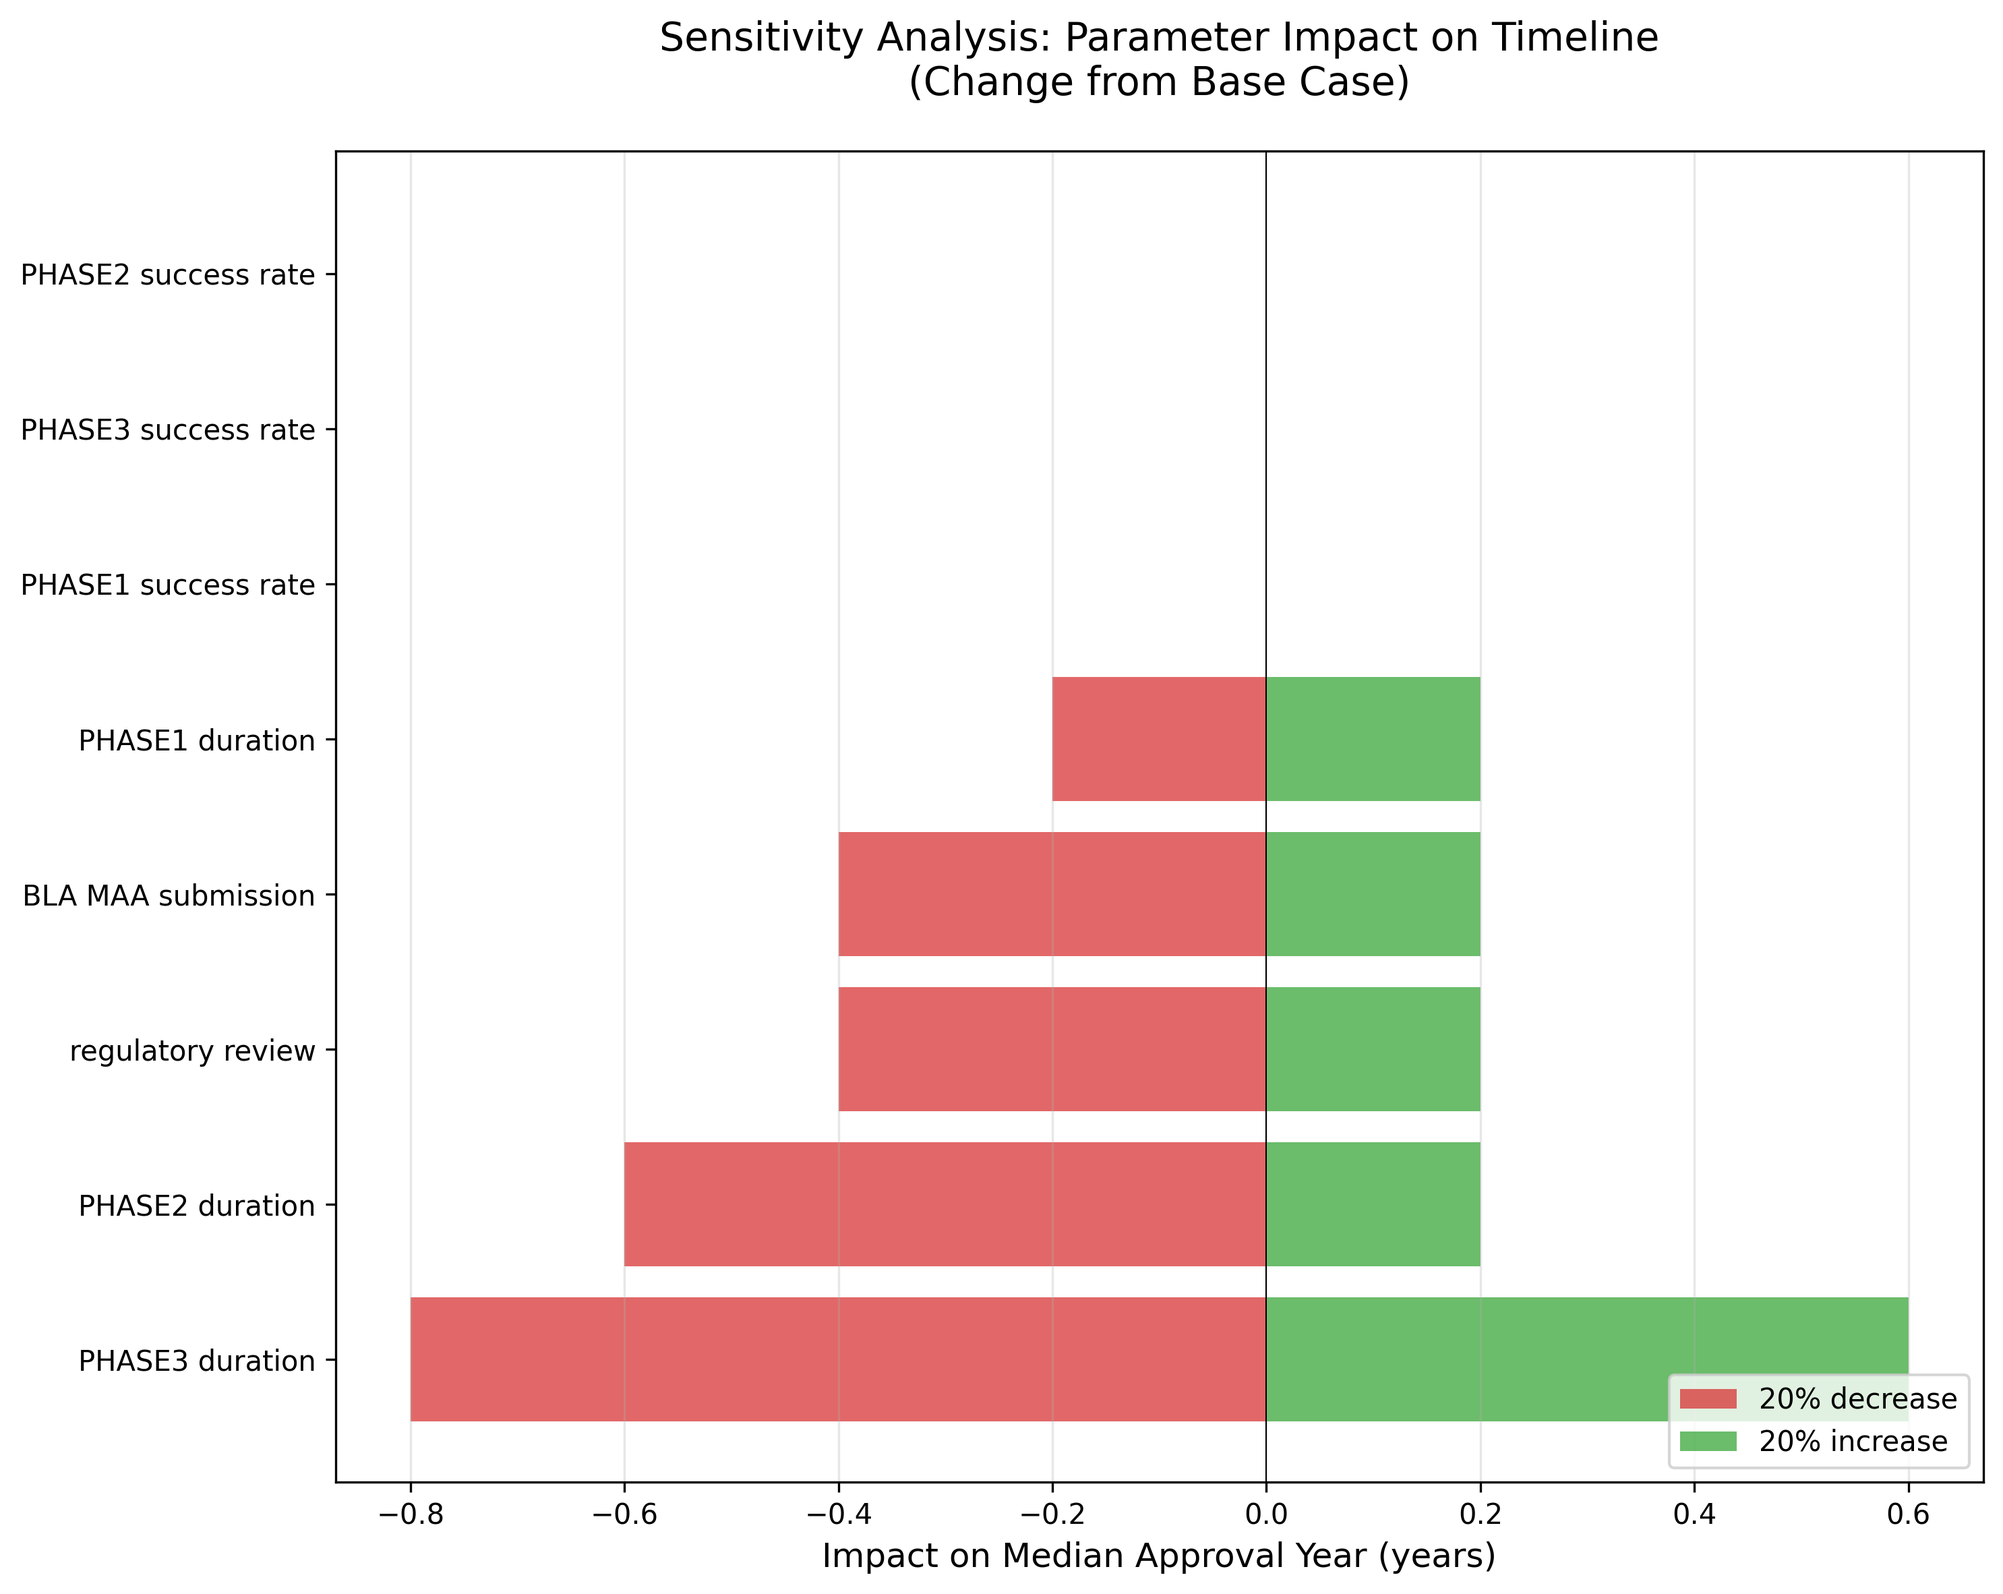
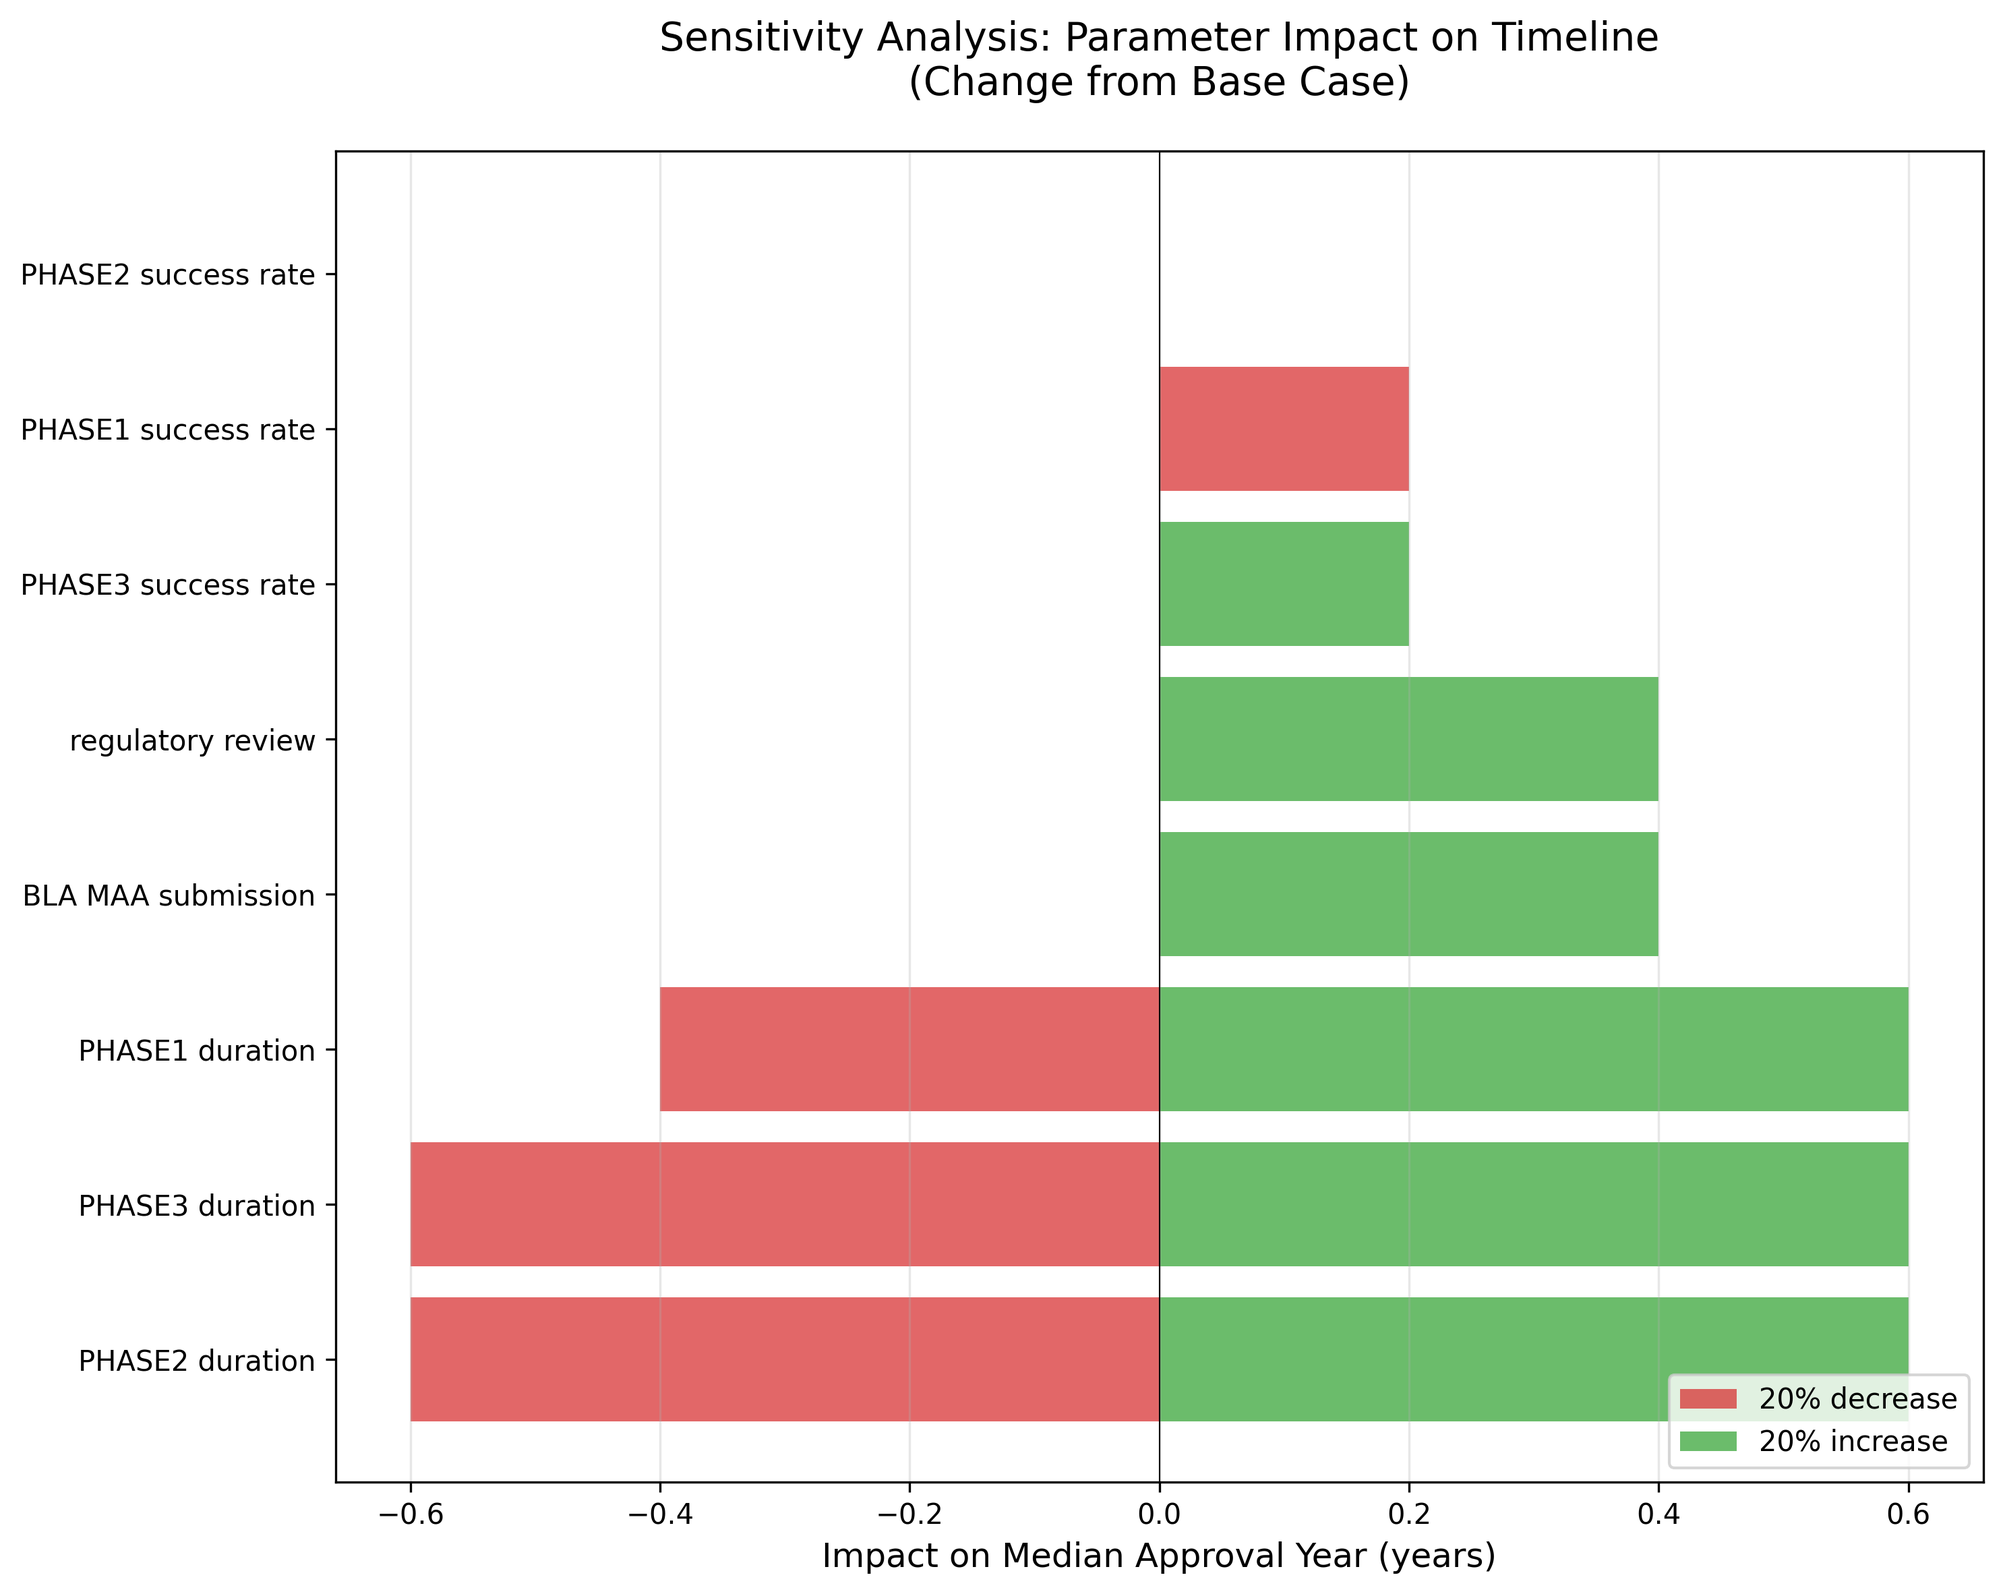
deploy: 54d3042644b5c4a6e199e2c0cdc199577644643e

diff --git a/index.html b/index.html
@@ -121,7 +121,7 @@
         </nav>
         
         <h1>網膜色素変性症（RP）治療開発ロードマップ</h1>
-<p>生成日時: 2025年06月26日 11:00</p>
+<p>生成日時: 2025年06月26日 19:09</p>
 <h2>エグゼクティブサマリー</h2>
 <p>本レポートは、網膜色素変性症（Retinitis Pigmentosa, RP）の治療法開発状況を定量的に分析し、効果的な治療法がいつ頃利用可能になるかを予測したものです。</p>
 <h3>主要な発見</h3>
@@ -200,6 +200,15 @@
 </thead>
 <tbody>
 <tr>
+<td>NCT04945772</td>
+<td>Efficacy and Safety of MCO-010 Optogenet...</td>
+<td>PHASE2</td>
+<td>Nanoscope Therapeutics Inc.</td>
+<td>100.0%</td>
+<td>2026年</td>
+<td>[2026, 2026]</td>
+</tr>
+<tr>
 <td>NCT05203939</td>
 <td>Study to Assess the Safety and Efficacy ...</td>
 <td>PHASE1, PHASE2</td>
@@ -218,22 +227,13 @@
 <td>[2027, 2027]</td>
 </tr>
 <tr>
-<td>NCT03584165</td>
-<td>Long-term Safety and Efficacy Follow-up ...</td>
-<td>PHASE3</td>
-<td>NightstaRx Ltd, a Biogen Company</td>
-<td>72.4%</td>
+<td>NCT06275620</td>
+<td>A Study Comparing Two Doses of AGTC-501 ...</td>
+<td>PHASE2</td>
+<td>Beacon Therapeutics</td>
+<td>100.0%</td>
 <td>2029年</td>
-<td>[2028, 2030]</td>
-</tr>
-<tr>
-<td>NCT05537220</td>
-<td>Oral N-acetylcysteine for Retinitis Pigm...</td>
-<td>PHASE3</td>
-<td>Johns Hopkins University</td>
-<td>71.5%</td>
-<td>2029年</td>
-<td>[2029, 2030]</td>
+<td>[2029, 2029]</td>
 </tr>
 <tr>
 <td>NCT00999609</td>
@@ -241,53 +241,53 @@
 <td>PHASE3</td>
 <td>Spark Therapeutics, Inc.</td>
 <td>71.7%</td>
-<td>2031年</td>
-<td>[2030, 2032]</td>
+<td>2029年</td>
+<td>[2028, 2030]</td>
 </tr>
 <tr>
 <td>NCT06333249</td>
 <td>A Study Comparing Two Doses of AGTC-501 ...</td>
 <td>PHASE2</td>
 <td>Beacon Therapeutics</td>
-<td>56.1%</td>
-<td>2032年</td>
-<td>[2031, 2032]</td>
+<td>100.0%</td>
+<td>2029年</td>
+<td>[2029, 2029]</td>
 </tr>
 <tr>
-<td>NCT04356716</td>
-<td>Sildenafil for Treatment of Choroidal Is...</td>
-<td>PHASE2</td>
-<td>Columbia University</td>
-<td>56.0%</td>
-<td>2032年</td>
-<td>[2031, 2032]</td>
-</tr>
-<tr>
-<td>NCT05909488</td>
-<td>Role of UC-MSC and CM to Inhibit Vision ...</td>
+<td>NCT04850118</td>
+<td>A Clinical Trial Evaluating the Safety a...</td>
 <td>PHASE2, PHASE3</td>
-<td>PT. Prodia Stem Cell Indonesia</td>
-<td>55.2%</td>
+<td>Beacon Therapeutics</td>
+<td>100.0%</td>
+<td>2029年</td>
+<td>[2029, 2029]</td>
+</tr>
+<tr>
+<td>NCT06852963</td>
+<td>A Study of Two Doses of VP-001 Administe...</td>
+<td>PHASE1, PHASE2</td>
+<td>PYC Therapeutics</td>
+<td>100.0%</td>
+<td>2030年</td>
+<td>[2029, 2030]</td>
+</tr>
+<tr>
+<td>NCT06455826</td>
+<td>MAD of IVT VP-001 in PRPF31 Mutation-Ass...</td>
+<td>PHASE1</td>
+<td>PYC Therapeutics</td>
+<td>100.0%</td>
+<td>2030年</td>
+<td>[2029, 2030]</td>
+</tr>
+<tr>
+<td>NCT05537220</td>
+<td>Oral N-acetylcysteine for Retinitis Pigm...</td>
+<td>PHASE3</td>
+<td>Johns Hopkins University</td>
+<td>71.4%</td>
 <td>2032年</td>
 <td>[2031, 2033]</td>
-</tr>
-<tr>
-<td>NCT02065011</td>
-<td>A Study to Determine the Long-Term Safet...</td>
-<td>PHASE2</td>
-<td>Sanofi</td>
-<td>56.2%</td>
-<td>2032年</td>
-<td>[2031, 2032]</td>
-</tr>
-<tr>
-<td>NCT06275620</td>
-<td>A Study Comparing Two Doses of AGTC-501 ...</td>
-<td>PHASE2</td>
-<td>Beacon Therapeutics</td>
-<td>55.6%</td>
-<td>2033年</td>
-<td>[2032, 2033]</td>
 </tr>
 </tbody>
 </table>
@@ -315,11 +315,11 @@
 <p><img alt="トルネード図" src="figs/tornado.png" /></p>
 <h3>主要な影響要因</h3>
 <ul>
+<li><strong>PHASE2 duration</strong> (increase 20%): +0.6年の影響</li>
+<li><strong>PHASE1 duration</strong> (increase 20%): +0.6年の影響</li>
 <li><strong>PHASE3 duration</strong> (increase 20%): +0.6年の影響</li>
-<li><strong>PHASE1 duration</strong> (increase 20%): +0.2年の影響</li>
-<li><strong>PHASE2 duration</strong> (increase 20%): +0.2年の影響</li>
-<li><strong>regulatory review</strong> (increase 20%): +0.2年の影響</li>
-<li><strong>BLA MAA submission</strong> (increase 20%): +0.2年の影響</li>
+<li><strong>BLA MAA submission</strong> (increase 20%): +0.4年の影響</li>
+<li><strong>regulatory review</strong> (increase 20%): +0.4年の影響</li>
 </ul>
 <h2>4. 予測の可視化</h2>
 <h3>累積承認確率</h3>

diff --git a/current_status_facts.md b/current_status_facts.md
@@ -32,19 +32,23 @@
 ## 🧬 最も進んでいる治療法（Phase 3実施中）
 
 ### 1. MCO-010（Nanoscope社）
-- **試験番号**: [NCT04945772](https://clinicaltrials.gov/study/NCT04945772)
-- **現在の状況**: Phase 3完了、データ解析中
+- **試験番号**: [NCT04945772](https://clinicaltrials.gov/study/NCT04945772)（RESTORE試験）
+- **現在の状況**: Phase 3完了、主要評価項目達成、統計的有意性確認
 - **開始日**: 2021年6月
-- **特徴**: 遺伝子型に依存しない光遺伝学的治療
-- **公式発表**: 2025年第1四半期にBLA（生物学的製剤承認申請）予定
+- **特徴**: 遺伝子型に依存しない（gene-agnostic）光遺伝学的治療
+- **FDA申請**: 2025年6月に段階的BLA（生物学的製剤承認申請）開始予定
+- **追加適応症**: スターガルト病にも有望な結果
+- **規制指定**: FDA Fast Track指定、希少疾病用医薬品指定取得
 - **参照**: [Nanoscope社プレスリリース](https://nanostherapeutics.com/2024/11/01/nanoscope-therapeutics-completes-patient-enrollment-in-phase-3-restore-trial/)
 
 ### 2. OCU400（Ocugen社）
-- **試験番号**: [NCT05203939](https://clinicaltrials.gov/study/NCT05203939)
-- **現在の状況**: Phase 3実施中
+- **試験番号**: [NCT05203939](https://clinicaltrials.gov/study/NCT05203939)（liMeliGhT試験）
+- **現在の状況**: Phase 3実施中、2025年前半に患者登録完了予定
 - **開始日**: 2022年9月
-- **特徴**: NR2E3遺伝子置換療法（複数の遺伝子変異に対応）
-- **公式発表**: Phase 1/2で100%の患者が改善または維持
+- **特徴**: NR2E3遺伝子置換療法（100以上の遺伝子変異に対応可能）
+- **最新データ**: Phase 1/2の2年データで100%（9/9）の患者が改善または維持（2025年1月発表）
+- **FDA申請**: 2026年中頃にBLA/MAA申請予定
+- **規制指定**: FDA RMAT指定、希少疾病用医薬品指定、EMA ATMP分類取得
 - **参照**: [Ocugen社発表](https://ocugen.com/gene-therapies/ocu400/)
 
 ### 3. Botaretigene sparoparvovec（Janssen社）
@@ -58,6 +62,26 @@
 - **現在の状況**: Phase 2/3実施中
 - **開始日**: 2020年12月
 - **特徴**: RPGR遺伝子変異に対する遺伝子治療
+
+### 5. VP-001（PYC Therapeutics社）
+- **現在の状況**: Phase 1実施中、2025年後半にPhase 2/3開始予定
+- **特徴**: RP11型向けRNA療法
+- **試験**: WALLABY試験（2025年11月完了予定）
+
+### 6. AGTC-501（Beacon Therapeutics社）
+- **現在の状況**: Phase 2/3 VISTA試験で患者登録中
+- **特徴**: X連鎖性RP（XLRP）向け遺伝子治療
+- **進捗**: Phase 2で良好な結果
+
+### 7. OpCT-001（BlueRock Therapeutics社）
+- **現在の状況**: Phase 1/2a CLARICO試験実施中
+- **特徴**: 光受容体細胞治療
+- **規制指定**: FDA Fast Track指定取得
+
+### 8. NPI-001（Nacuity Pharmaceuticals社）
+- **現在の状況**: 開発中
+- **特徴**: 経口薬（神経保護作用）
+- **規制指定**: FDA Fast Track指定取得
 
 ---
 
@@ -124,13 +148,19 @@
 ## 📅 重要な最新動向（2024-2025年）
 
 ### 2024年
-- 11月: Nanoscope社がMCO-010のPhase 3患者登録完了を発表
+- 11月: Nanoscope社がMCO-010のPhase 3（RESTORE試験）患者登録完了を発表
 - 10月: Ocugen社がOCU400の中間解析で良好な結果を報告
 - 6月: 日本でLuxturnaが保険適用開始
+- 年内: MCO-010のRESTORE試験が主要評価項目を達成、統計的有意性確認
 
 ### 2025年
-- 6月: 複数の企業がARVO 2025で最新データを発表
-- 予定: Nanoscope社がMCO-010のBLA申請（Q1）
+- 6月: Nanoscope社がMCO-010の段階的BLA申請を開始
+- 5月: Ocugen社がEMAからOCU400のATMP分類と中央審査手続き承認取得
+- 1月: Ocugen社がOCU400の2年データで100%改善/維持を発表
+- 年内予定: 
+  - PYC VP-001のPhase 2/3試験開始
+  - OCU400のliMeliGhT Phase 3試験患者登録完了
+  - MCO-010のスターガルト病への適応拡大検討
 
 ---
 

diff --git a/index.md b/index.md
@@ -1,6 +1,6 @@
 # 網膜色素変性症（RP）治療開発ロードマップ
 
-生成日時: 2025年06月26日 11:00
+生成日時: 2025年06月26日 19:09
 
 ## エグゼクティブサマリー
 
@@ -49,16 +49,16 @@
 
 | 試験ID | 治療法名 | フェーズ | スポンサー | 成功率 | 承認予測（中央値） | 90%信頼区間 |
 |--------|----------|----------|------------|--------|-------------------|--------------|
+| NCT04945772 | Efficacy and Safety of MCO-010 Optogenet... | PHASE2 | Nanoscope Therapeutics Inc. | 100.0% | 2026年 | [2026, 2026] |
 | NCT05203939 | Study to Assess the Safety and Efficacy ... | PHASE1, PHASE2 | Ocugen | 100.0% | 2027年 | [2027, 2027] |
 | NCT06388200 | A Phase 3 Study Of OCU400 Gene Therapy f... | PHASE3 | Ocugen | 100.0% | 2027年 | [2027, 2027] |
-| NCT03584165 | Long-term Safety and Efficacy Follow-up ... | PHASE3 | NightstaRx Ltd, a Biogen Company | 72.4% | 2029年 | [2028, 2030] |
-| NCT05537220 | Oral N-acetylcysteine for Retinitis Pigm... | PHASE3 | Johns Hopkins University | 71.5% | 2029年 | [2029, 2030] |
-| NCT00999609 | Safety and Efficacy Study in Subjects Wi... | PHASE3 | Spark Therapeutics, Inc. | 71.7% | 2031年 | [2030, 2032] |
-| NCT06333249 | A Study Comparing Two Doses of AGTC-501 ... | PHASE2 | Beacon Therapeutics | 56.1% | 2032年 | [2031, 2032] |
-| NCT04356716 | Sildenafil for Treatment of Choroidal Is... | PHASE2 | Columbia University | 56.0% | 2032年 | [2031, 2032] |
-| NCT05909488 | Role of UC-MSC and CM to Inhibit Vision ... | PHASE2, PHASE3 | PT. Prodia Stem Cell Indonesia | 55.2% | 2032年 | [2031, 2033] |
-| NCT02065011 | A Study to Determine the Long-Term Safet... | PHASE2 | Sanofi | 56.2% | 2032年 | [2031, 2032] |
-| NCT06275620 | A Study Comparing Two Doses of AGTC-501 ... | PHASE2 | Beacon Therapeutics | 55.6% | 2033年 | [2032, 2033] |
+| NCT06275620 | A Study Comparing Two Doses of AGTC-501 ... | PHASE2 | Beacon Therapeutics | 100.0% | 2029年 | [2029, 2029] |
+| NCT00999609 | Safety and Efficacy Study in Subjects Wi... | PHASE3 | Spark Therapeutics, Inc. | 71.7% | 2029年 | [2028, 2030] |
+| NCT06333249 | A Study Comparing Two Doses of AGTC-501 ... | PHASE2 | Beacon Therapeutics | 100.0% | 2029年 | [2029, 2029] |
+| NCT04850118 | A Clinical Trial Evaluating the Safety a... | PHASE2, PHASE3 | Beacon Therapeutics | 100.0% | 2029年 | [2029, 2029] |
+| NCT06852963 | A Study of Two Doses of VP-001 Administe... | PHASE1, PHASE2 | PYC Therapeutics | 100.0% | 2030年 | [2029, 2030] |
+| NCT06455826 | MAD of IVT VP-001 in PRPF31 Mutation-Ass... | PHASE1 | PYC Therapeutics | 100.0% | 2030年 | [2029, 2030] |
+| NCT05537220 | Oral N-acetylcysteine for Retinitis Pigm... | PHASE3 | Johns Hopkins University | 71.4% | 2032年 | [2031, 2033] |
 
 
 ### 治療モダリティ別の状況
@@ -85,11 +85,11 @@
 ![トルネード図](figs/tornado.png)
 
 ### 主要な影響要因
+- **PHASE2 duration** (increase 20%): +0.6年の影響
+- **PHASE1 duration** (increase 20%): +0.6年の影響
 - **PHASE3 duration** (increase 20%): +0.6年の影響
-- **PHASE1 duration** (increase 20%): +0.2年の影響
-- **PHASE2 duration** (increase 20%): +0.2年の影響
-- **regulatory review** (increase 20%): +0.2年の影響
-- **BLA MAA submission** (increase 20%): +0.2年の影響
+- **BLA MAA submission** (increase 20%): +0.4年の影響
+- **regulatory review** (increase 20%): +0.4年の影響
 
 
 ## 4. 予測の可視化

diff --git a/ai_predictions.md b/ai_predictions.md
@@ -36,26 +36,34 @@
 
 | 順位 | 治療法 | 企業 | 承認予測（中央値） | 90%信頼区間 |
 |------|--------|------|-------------------|--------------|
-| 1 | MCO-010 | Nanoscope | **2027年** | 2026-2028年 |
-| 2 | OCU400 | Ocugen | **2029年** | 2027-2031年 |
-| 3 | Botaretigene | Janssen | **2030年** | 2028-2033年 |
-| 4 | BIIB111 | Biogen | **2031年** | 2029-2034年 |
+| 1 | MCO-010 | Nanoscope | **2026年** | 2025-2027年 |
+| 2 | OCU400 | Ocugen | **2027年** | 2026-2029年 |
+| 3 | VP-001 | PYC Therapeutics | **2029年** | 2028-2031年 |
+| 4 | AGTC-501 | Beacon | **2029年** | 2028-2031年 |
 
 ### なぜMCO-010が最速なのか
-1. **Phase 3完了済み**（2024年11月）
-2. **2025年Q1にBLA申請予定**（公式発表）
+1. **Phase 3（RESTORE試験）完了済み**（2024年、統計的有意性達成）
+2. **2025年6月に段階的BLA申請開始**（最新情報）
 3. **Fast Track指定**により審査期間短縮
-4. **遺伝子型非依存**で対象患者が広い
+4. **遺伝子型非依存（gene-agnostic）**で対象患者が広い
+5. **スターガルト病への適応拡大**も検討中
+
+### なぜOCU400も有望なのか
+1. **Phase 1/2の2年データで100%改善/維持**（2025年1月発表）
+2. **100以上の遺伝子変異に対応可能**
+3. **FDA RMAT指定とEMA ATMP分類**取得
+4. **2026年中頃にBLA/MAA申請予定**（スケジュール通り）
 
 ---
 
 ## 📈 時系列予測
 
 ### 2025-2030年
-- **2025年**: MCO-010がBLA申請（確定事項）
-- **2026-2027年**: MCO-010承認の可能性（60-70%）
-- **2028年**: 2-3の治療法が利用可能に（40%）
-- **2029年**: OCU400承認の可能性（50%）
+- **2025年**: MCO-010が6月にBLA申請開始（確定事項）
+- **2026年**: MCO-010承認の可能性（70-80%）、OCU400がBLA/MAA申請
+- **2027年**: OCU400承認の可能性（60-70%）
+- **2028年**: 3-4の治療法が利用可能に（50%）
+- **2029年**: VP-001、AGTC-501承認の可能性（40%）
 - **2030年**: 5-7の治療法が利用可能（中央値予測）
 
 ### 2031-2035年
@@ -73,7 +81,9 @@
 ## 🎯 予測の信頼度
 
 ### 高信頼度（80%以上）
-- MCO-010が2025年にBLA申請 ✓（公式発表済み）
+- MCO-010が2025年6月にBLA申請開始 ✓（最新情報で確認）
+- MCO-010のRESTORE試験成功 ✓（統計的有意性達成）
+- OCU400の2年データで100%改善/維持 ✓（2025年1月発表）
 - 2030年までに複数の治療法が承認される
 - 遺伝子治療が主流になる
 
